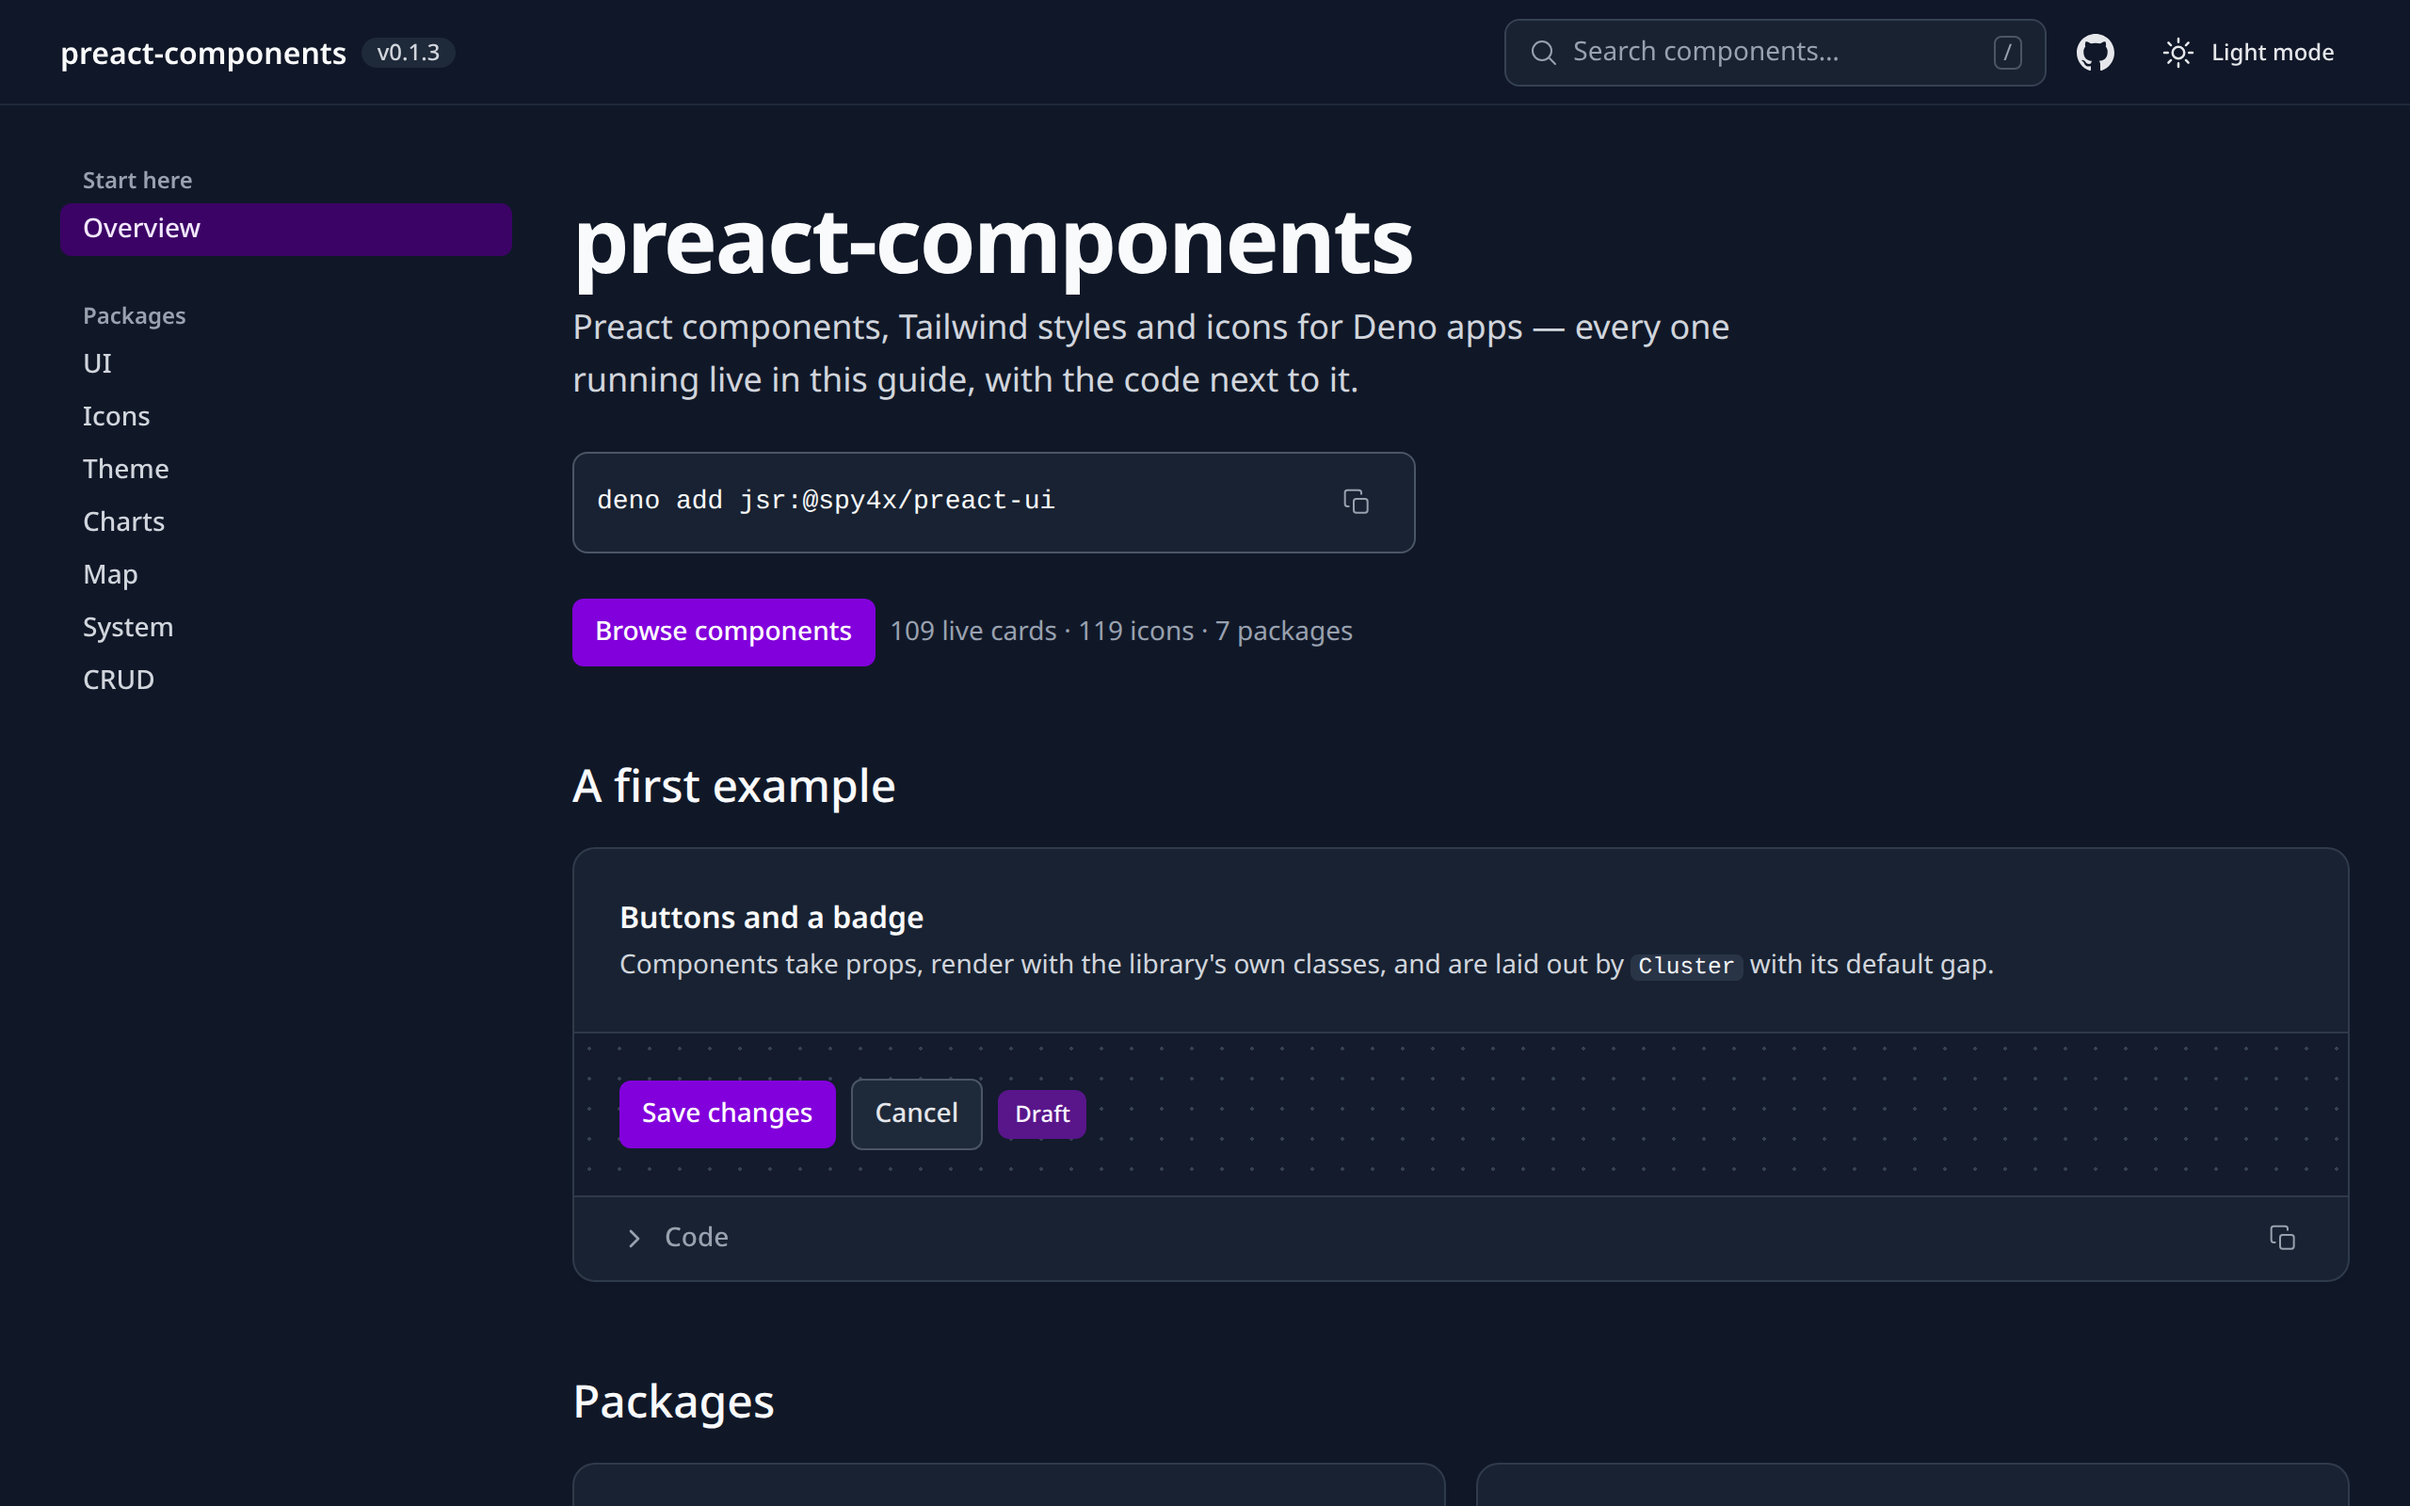
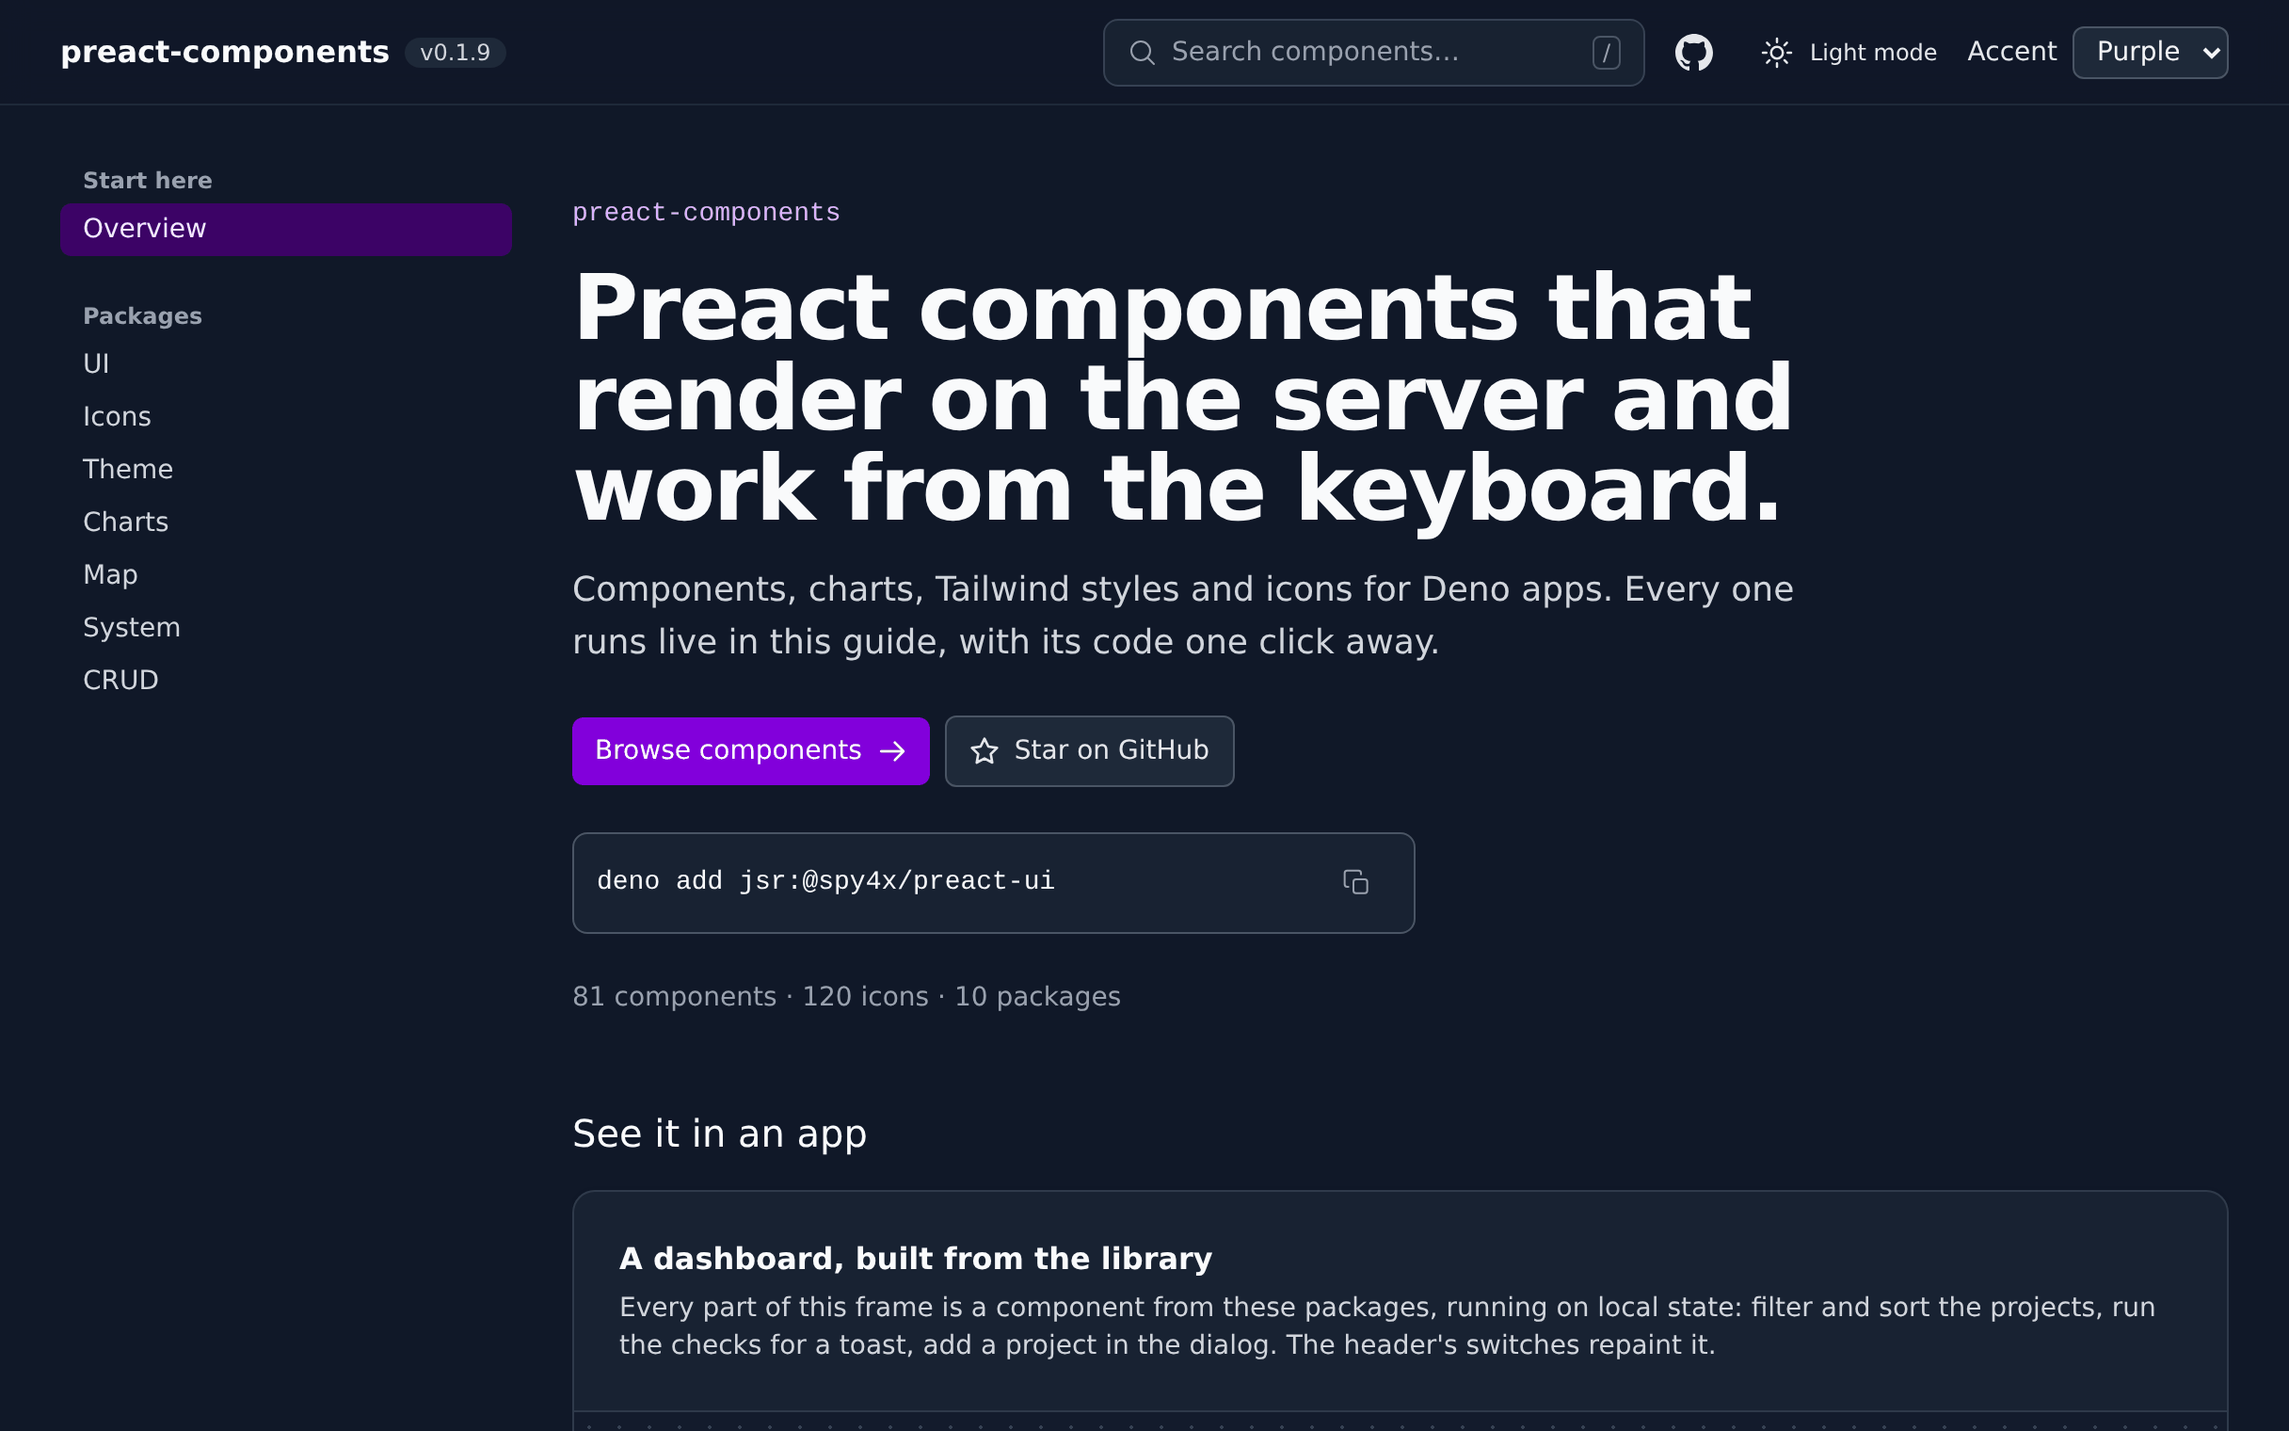
docs: README first screen with fresh guide screenshots and links back (#412)
* docs: retake the readme screenshots from the new guide

The overview pair showed the front page from before #400/#408. Adds the live dashboard in both palettes and a social preview composed from the guide's own hero and dashboard. All five are quantised to 256 colours.

* docs: put the install line and web standards up front

* docs: reframe the readme screenshots and social preview

The overview now ends on the dashboard stage's edge, the dashboard shot is cropped to its frame, and the social preview fits the whole dashboard with grayscale text.

* docs: keep the social preview in full colour

Quantising to 256 colours after the downscale merged the Failed series into the Failing badge's red and the Passed line into the Building badge's blue.

---------

diff --git a/README.md b/README.md
@@ -2,12 +2,16 @@
 
 # preact-components
 
-**Accessible Preact + Tailwind components, design tokens, icons, charts and signals helpers, with a
-live guide that shows every one running.**
+**Modern Preact + Tailwind components built on web standards: accessible components, design
+tokens, icons, charts and signals helpers, with a live guide that shows every one running.**
 
 [![CI pipeline status](https://ci.antonshubin.com/api/badges/9/status.svg)](https://ci.antonshubin.com/repos/9)
 [![JSR](https://jsr.io/badges/@spy4x/preact-ui)](https://jsr.io/@spy4x/preact-ui)
 [![License](https://img.shields.io/badge/license-MIT-blue)](LICENSE)
+
+```bash
+deno add jsr:@spy4x/preact-ui
+```
 
 [**Live guide →**](https://spy4x.github.io/preact-components) ·
 [Install and use](docs/usage.md) · [Maintaining](docs/maintaining.md) ·
@@ -18,7 +22,7 @@ The design system and the original markup are by [Eirene](https://github.com/Eir
 
 <picture>
   <source media="(prefers-color-scheme: dark)" srcset="docs/screenshots/guide-overview-dark.png">
-  <img src="docs/screenshots/guide-overview-light.png" width="1280" alt="The live UI guide's overview page: a header with the library's name and version, a search box, a GitHub link and a dark-mode switch; a side navigation grouped into Start here and Packages; and the page itself, with the install command, a Browse components button beside the counts of live cards, icons and packages, and a first example card showing two buttons and a badge above its code toggle.">
+  <img src="docs/screenshots/guide-overview-light.png" width="1216" alt="The live UI guide's overview page. A header holds the library's name and version, a search box, a GitHub link, a dark-mode switch and an accent colour picker. A side navigation lists Overview under Start here and the UI, Icons, Theme, Charts, Map, System and CRUD packages. The page opens with the headline Preact components that render on the server and work from the keyboard, a Browse components button and a Star on GitHub button, the install command deno add jsr:@spy4x/preact-ui with a copy button, and the counts of components, icons and packages, above the See it in an app section and the title and summary of its dashboard card.">
 </picture>
 
 </div>
@@ -31,6 +35,22 @@ it, so you can try one before you install it.
 The components were extracted from real products, so the same pieces are not rebuilt for the next
 one. Every package is published on JSR under `@spy4x/preact-*`, all at one version.
 
+<picture>
+  <source media="(prefers-color-scheme: dark)" srcset="docs/screenshots/guide-mini-app-dark.png">
+  <img src="docs/screenshots/guide-mini-app-light.png" width="878" alt="The live dashboard on the guide's overview, built only from the library's components. A frame titled Orbit with a Demo badge has Run checks and New project buttons; a filter column lists All projects, Healthy, Building, Failing and Paused with a count each; four KPI tiles read Projects 5, Builds 494 all time, Failing 1 and Median build 2m 41s; a line chart titled Builds this week plots Passed and Failed builds from Monday to Sunday; and a sortable table lists the five projects with their status badge and build count: Atlas, Healthy, 128; Beacon, Building, 96; Comet, Failing, 41; Drift, Healthy, 212; Ember, Paused, 17.">
+</picture>
+
+## Where it runs
+
+Every package is a standard ES module built on web standards, with no Deno-only API in anything
+published: a component renders to HTML on a server and hydrates in the browser, where it uses the
+browser's own APIs, such as the History API, `localStorage`, `IntersectionObserver` and
+`ResizeObserver`. The packages are published on JSR, so a Deno app installs them with `deno add`,
+and an app that builds with Vite uses them through `@deno/vite-plugin`, with the theme's Vite
+plugins ([`theme/README.md`](theme/README.md)). The tests and the build run under Deno 2; running
+the packages under Node or Bun has not been tried. [docs/usage.md](docs/usage.md#where-it-runs)
+has the details.
+
 ## Why preact-components
 
 - **Accessibility written by hand.** Roles, labels, keyboard handling and focus are owned here, and
@@ -42,8 +62,9 @@ one. Every package is published on JSR under `@spy4x/preact-*`, all at one versi
   `var()`, so an app restyles everything by setting variables instead of forking CSS.
 - **Server-renderable.** Components touch `window` or `document` only in effects and event
   handlers, so they render to HTML on a server and hydrate in the browser.
-- **Standard ES modules.** Nothing a package publishes calls a Deno-only API; data arrives through
-  props, and every request goes to an address the app supplies.
+- **Web standards.** Standard ES modules and the browser's own APIs; nothing a package publishes
+  calls a Deno-only API, data arrives through props, and every request goes to an address the app
+  supplies.
 - **One spacing scale.** Layout goes through `Page`, `Section`, `Stack`, `Cluster` and `Grid`, and
   no component carries an outer margin: [spacing](docs/spacing.md).
 
@@ -110,5 +131,4 @@ Licensed under [MIT](LICENSE). Copyright (c) 2026 Anton Shubin.
 
 ---
 
-Made by Anton Shubin ·
-[antonshubin.com/tools/preact-components](https://antonshubin.com/tools/preact-components)
+Made by Anton Shubin · [antonshubin.com/tools](https://antonshubin.com/tools/preact-components)
